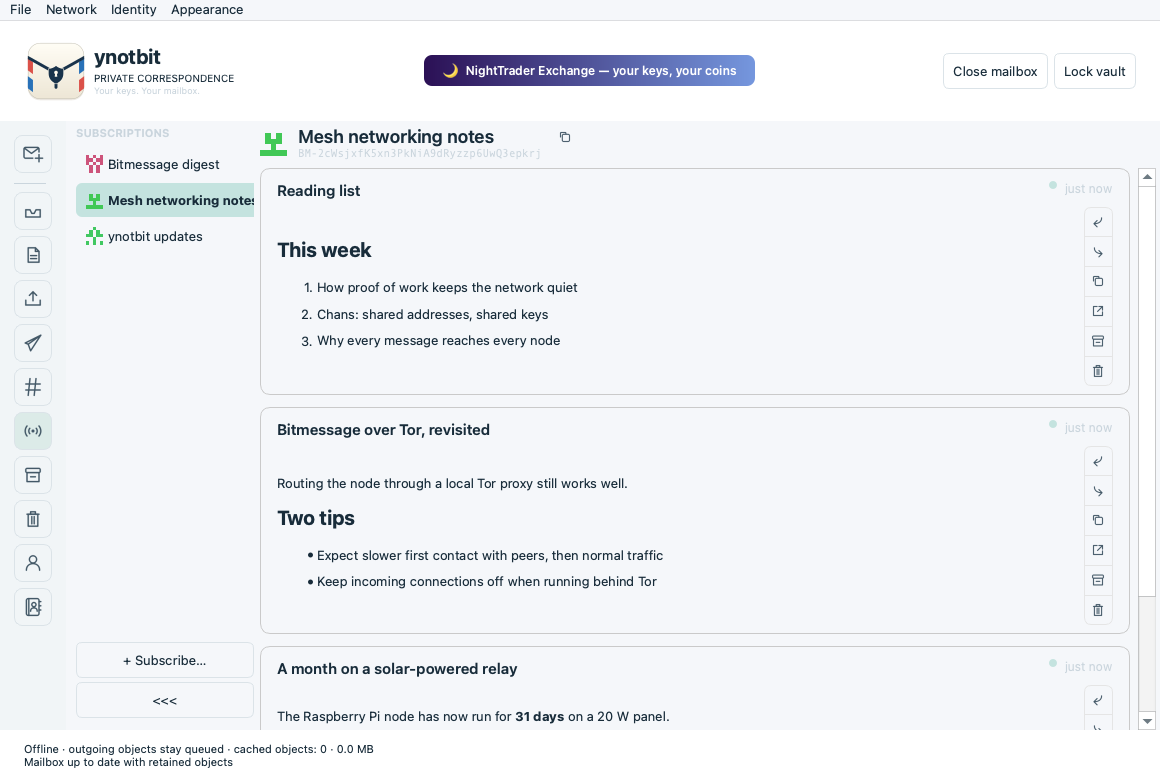
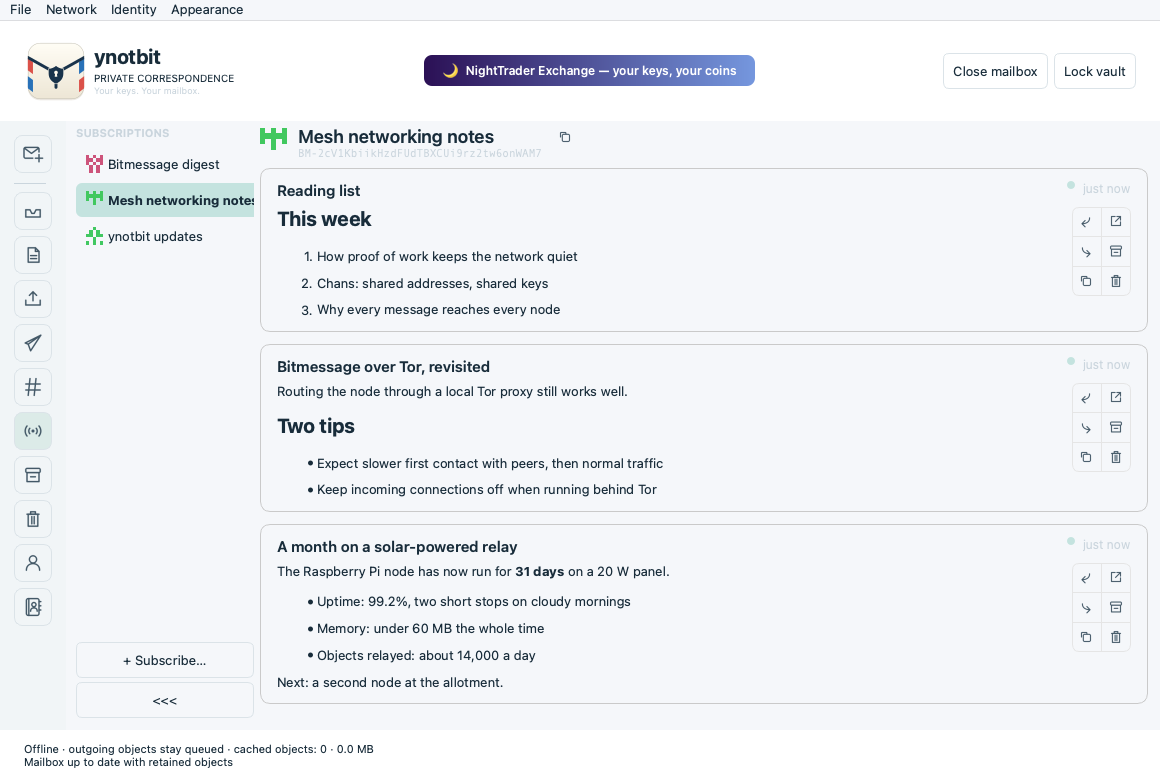
feat(feed): cards fit their text; action buttons flow into columns
A short post's text sat centred beside the column of action buttons, and
its card stayed as tall as six buttons. The text now starts at the top of
the card, and the buttons fill as many rows as fit beside it (one, two,
three or six columns), keeping their order; dividers and rounded corners
follow each button's place in the grid. The Subscriptions screenshot in
the README shows the compact cards.

Claude-Session: https://claude.ai/code/session_01UziAMQVLm9RsVR1SD29vkD

diff --git a/src/feed_view.cpp b/src/feed_view.cpp
@@ -4,7 +4,10 @@
 #include <QAbstractTextDocumentLayout>
 #include <QDesktopServices>
 #include <QtWidgets>
+#include <algorithm>
 #include <cmath>
+#include <functional>
+#include <memory>
 
 namespace bm {
 namespace {
@@ -27,12 +30,16 @@ class FeedBody : public LetterView {
         connect(document()->documentLayout(),
                 &QAbstractTextDocumentLayout::documentSizeChanged, this, [this] { fit(); });
     }
+    // Called after every fit, so the card can arrange its buttons beside the text.
+    std::function<void()> fitted;
     void fit() {
         const auto bar = horizontalScrollBar();
         const int h = int(std::ceil(document()->size().height())) + 2 * frameWidth() +
                       (bar->maximum() > 0 ? bar->sizeHint().height() : 0);
         if (h != height())
             setFixedHeight(h);
+        if (fitted)
+            fitted();
     }
 
   protected:
@@ -363,24 +370,28 @@ QWidget *FeedView::makeCard(const QVariantMap &letter) {
     });
     auto bodyRow = new QHBoxLayout;
     bodyRow->setSpacing(8);
-    bodyRow->addWidget(body, 1);
+    // Top: the body's height is its text's, and a short post would otherwise
+    // be centred in the height the action buttons give the row.
+    bodyRow->addWidget(body, 1, Qt::AlignTop);
 
     auto actionsWidget = new QWidget;
     actionsWidget->setObjectName("feedActions");
     QString borderColor = dark_ ? "#4d4d4d" : "#e5e5e5";
     QString hoverColor = dark_ ? "#555555" : "#dddddd";
+    // Dividers and rounded corners follow each button's place in the grid (see
+    // arrange below), so the buttons read as one control in any shape.
     actionsWidget->setStyleSheet(
         QString("QWidget#feedActions{border:1px solid %1;border-radius:7px;background:transparent;} "
                 "QWidget#feedActions QToolButton{border:0;border-radius:0;background:transparent;padding:4px;margin:0;} "
                 "QWidget#feedActions QToolButton:hover{background:%2;} "
-                "QWidget#feedActions QToolButton#feedReply{border-top-left-radius:6px;border-top-right-radius:6px;border-bottom:1px solid %1;} "
-                "QWidget#feedActions QToolButton#feedForward{border-bottom:1px solid %1;} "
-                "QWidget#feedActions QToolButton#feedCopy{border-bottom:1px solid %1;} "
-                "QWidget#feedActions QToolButton#feedOpen{border-bottom:1px solid %1;} "
-                "QWidget#feedActions QToolButton#feedArchive{border-bottom:1px solid %1;} "
-                "QWidget#feedActions QToolButton#feedTrash{border-bottom-left-radius:6px;border-bottom-right-radius:6px;} ")
+                "QWidget#feedActions QToolButton[lastRow=\"false\"]{border-bottom:1px solid %1;} "
+                "QWidget#feedActions QToolButton[lastColumn=\"false\"]{border-right:1px solid %1;} "
+                "QWidget#feedActions QToolButton[roundTL=\"true\"]{border-top-left-radius:6px;} "
+                "QWidget#feedActions QToolButton[roundTR=\"true\"]{border-top-right-radius:6px;} "
+                "QWidget#feedActions QToolButton[roundBL=\"true\"]{border-bottom-left-radius:6px;} "
+                "QWidget#feedActions QToolButton[roundBR=\"true\"]{border-bottom-right-radius:6px;} ")
             .arg(borderColor, hoverColor));
-    auto actions = new QVBoxLayout(actionsWidget);
+    auto actions = new QGridLayout(actionsWidget);
     actions->setContentsMargins(0, 0, 0, 0);
     actions->setSpacing(0);
     auto reply = actionButton("feedReply", "reply", tr("Reply privately"), dark_);
@@ -406,9 +417,48 @@ QWidget *FeedView::makeCard(const QVariantMap &letter) {
             card->hide();
             card->deleteLater(); // its own button is mid-click
         });
-    for (auto b : {reply, forwardBtn, copy, open, archive, trash}) {
-        actions->addWidget(b);
-    }
+    // The buttons fill columns top to bottom, as many rows as fit beside the
+    // text, so a short post's card is no taller than its text.
+    const QList<QToolButton *> buttons{reply, forwardBtn, copy, open, archive, trash};
+    const auto arrange = [actions, buttons](int columns) {
+        const int rows = int(buttons.size()) / columns;
+        for (int i = 0; i < buttons.size(); ++i) {
+            auto b = buttons[i];
+            const int row = i % rows, column = i / rows;
+            actions->removeWidget(b);
+            actions->addWidget(b, row, column);
+            b->setProperty("lastRow", row == rows - 1);
+            b->setProperty("lastColumn", column == columns - 1);
+            b->setProperty("roundTL", row == 0 && column == 0);
+            b->setProperty("roundTR", row == 0 && column == columns - 1);
+            b->setProperty("roundBL", row == rows - 1 && column == 0);
+            b->setProperty("roundBR", row == rows - 1 && column == columns - 1);
+            b->style()->unpolish(b);
+            b->style()->polish(b);
+        }
+    };
+    arrange(1);
+    struct Fit {
+        int columns = 1, cardWidth = -1, bodyWidth = -1;
+    };
+    auto fit = std::make_shared<Fit>();
+    body->fitted = [card, body, buttons, arrange, fit] {
+        // The text narrowing because the buttons took another column is the
+        // grid's own doing: acting on it again could flip back and forth.
+        if (card->width() == fit->cardWidth && body->width() != fit->bodyWidth) {
+            fit->bodyWidth = body->width();
+            return;
+        }
+        fit->cardWidth = card->width();
+        fit->bodyWidth = body->width();
+        const int rowHeight = std::max(1, buttons.first()->sizeHint().height());
+        const int rows = std::clamp(body->height() / rowHeight, 1, int(buttons.size()));
+        const int columns = (int(buttons.size()) + rows - 1) / rows; // 1, 2, 3 or 6: full grids
+        if (columns != fit->columns) {
+            fit->columns = columns;
+            arrange(columns);
+        }
+    };
     auto actionsColumn = new QVBoxLayout;
     actionsColumn->setContentsMargins(0, 0, 0, 0);
     actionsColumn->addWidget(actionsWidget);

diff --git a/tests/widgets_tests.cpp b/tests/widgets_tests.cpp
@@ -1894,6 +1894,35 @@ int main(int argc, char **argv) {
                 auto body = card->findChild<QTextBrowser *>("feedBody");
                 require(body->height() >= int(body->document()->size().height()),
                         "a card's text is never cut: the card grows with it");
+                // Shorter than the action buttons beside it, the text must still
+                // start at the top, not centred in the height the buttons take.
+                auto actions = card->findChild<QWidget *>("feedActions");
+                require(body->height() < actions->height(), "test sanity: a short post");
+                require(qAbs(body->mapTo(card, QPoint()).y() - actions->mapTo(card, QPoint()).y()) <= 2,
+                        "a short post's text starts at the top of its card, beside the actions");
+                // The buttons flow into columns beside a short post, so the card is
+                // no taller than its text needs; a long post keeps one column.
+                QList<QToolButton *> buttons;
+                for (auto name : {"feedReply", "feedForward", "feedCopy", "feedOpen", "feedArchive",
+                                  "feedTrash"})
+                    buttons << card->findChild<QToolButton *>(name);
+                const auto columns = [&] {
+                    QSet<int> xs;
+                    for (auto b : buttons)
+                        xs << b->x();
+                    return xs.size();
+                };
+                require(columns() > 1, "beside a short post the buttons flow into columns");
+                require(actions->height() < 3 * buttons.first()->height(),
+                        "...so the card is shorter than a column of buttons");
+                auto ordered = buttons;
+                std::sort(ordered.begin(), ordered.end(), [](QToolButton *a, QToolButton *b) {
+                    return a->x() != b->x() ? a->x() < b->x() : a->y() < b->y();
+                });
+                require(ordered == buttons, "the buttons keep their order, column by column");
+                body->setPlainText(QString("A long post.\n").repeated(20));
+                QTest::qWait(30);
+                require(columns() == 1, "beside a long post the buttons stay in one column");
             }
             chipNamed("ynotbit updates")->click();
             QTest::qWait(30);
